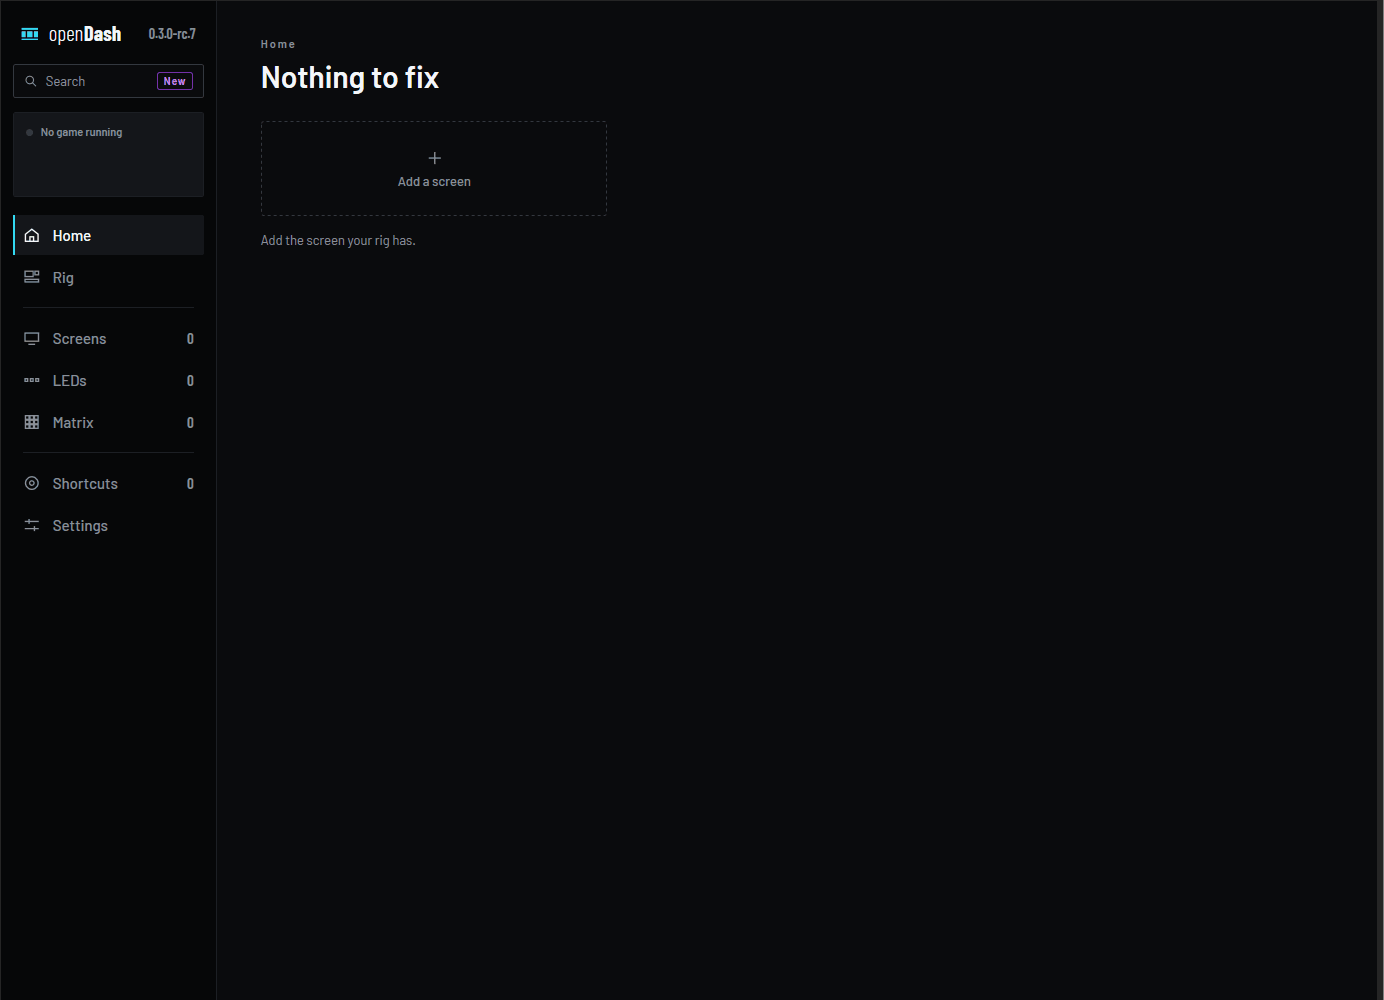
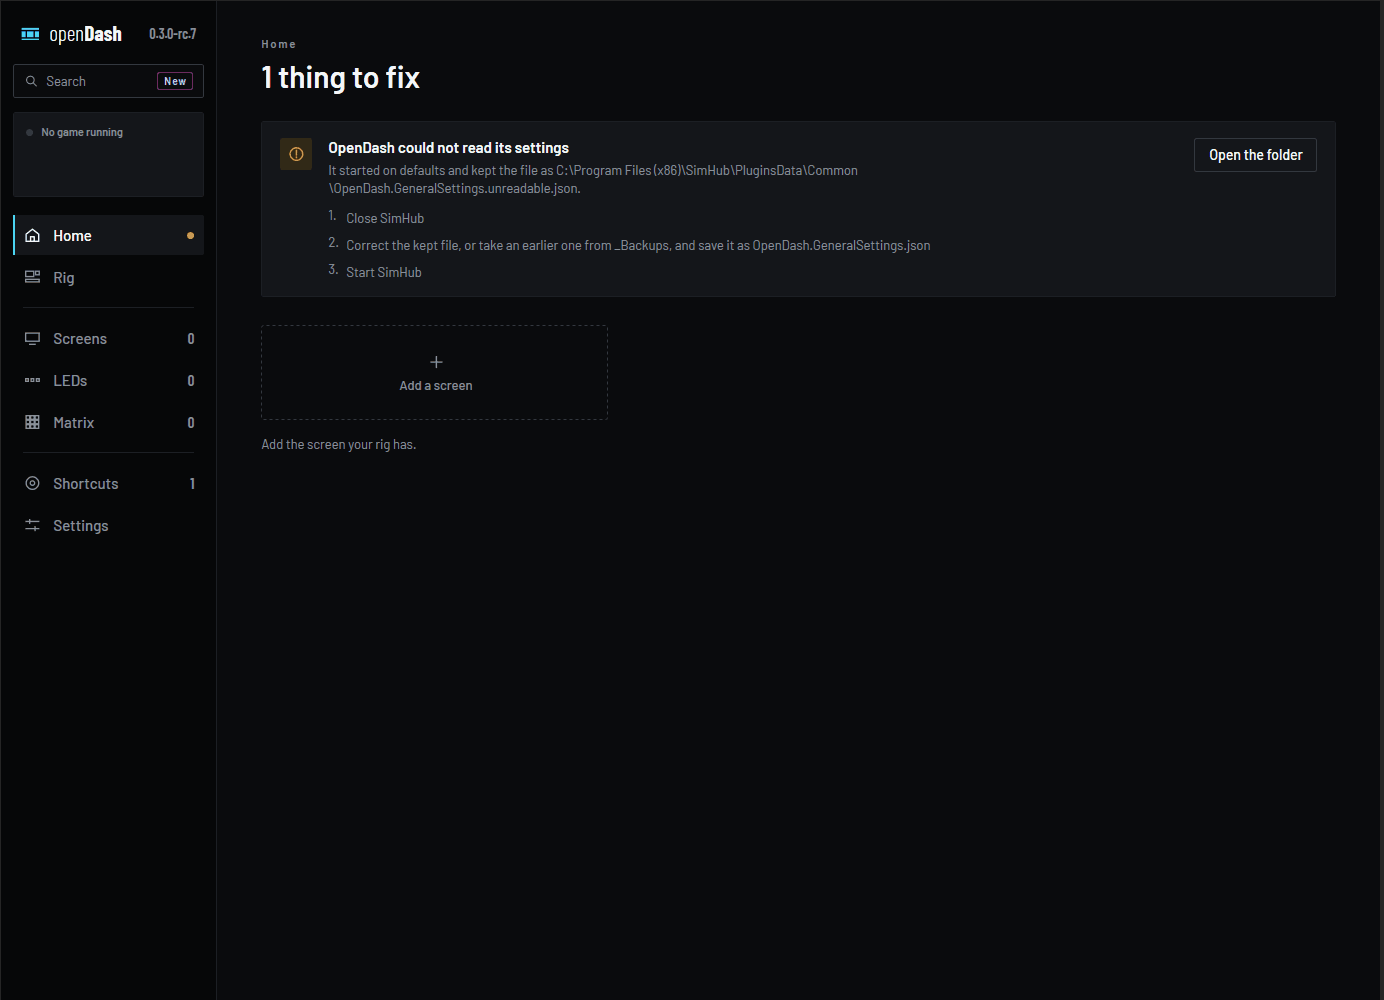
The panel verification record says which of the six bug fixes held on the VM (#529)
media/503/panel-verification.md gains a dated "Bug fixes verified" section. It has one row for each fix
filed from the run, checked at 2402ecb2 on SimHub 9.12.6. Five passed. The support report names SimHub 9.12.6
(#641). A rebuild from a bound night-mode key keeps the Oil temperature box's caret and selection (#542). An
unreadable settings file is kept beside itself, and Home says where it is and how to put it back (#643). A
profile newer than an rc.1 build reads "Newer than this build" everywhere, with no Update press (#642).
panel-shots measures the panel at all four widths, photographs 44 of 44 and writes run.json (#640).

#543 does not pass as its ticket words it. Between two of Settings' thresholds a resize rebuilds nothing, and
the typed value, the caret, the focus and the scroll all stay put. The ticket's 1000 to 1080 px drag, though,
crosses the 680 px alert threshold at about 1036. There the page is rebuilt by design, and the keyboard focus
comes back in Low fuel's box rather than Oil temperature's. BUG-543-focus.png shows it. The section also says
why the sidebar's night switch cannot stand in for the wheel press when testing #542: clicking the switch takes
the keyboard focus. It also says what the VM was left in.

FL-06-unreadable.png is replaced by Home's new "OpenDash could not read its settings". BUG-642-newer.png and
BUG-543-focus.png are new. All three are 128-colour PNGs.

Snapshots: none moved.

diff --git a/media/503/panel-verification.md b/media/503/panel-verification.md
@@ -356,3 +356,29 @@ SimHub from the LD, AL and MX rows.
 | FL-06 | inject a bad settings value | ✅ | second pass, two values. A face with Width 0 and Height 0 ("Broken") written with SimHub stopped: SimHub starts, the installer refuses it and logs `ERROR [OpenDash] Installing OpenDash Broken failed: … mentions OpenDash.Face0x0 nowhere`, Home lists "Broken's dashboard is missing from SimHub", and Screens draws its card with "OpenDash no longer ships a 0 × 0 face. Your settings are kept." ([FL-06.png](FL-06.png)); Rig draws it too ([FL-06-rig.png](FL-06-rig.png)). No page threw, so the page-failed line ("This page could not be drawn. See SimHub's log.") was not reached; no settings value tried reaches it, since Normalise absorbs them. A value of the wrong type (`"Rig": 5`): SimHub survives and logs the Newtonsoft exception, but OpenDash starts on defaults and saves them over the file ([FL-06-unreadable.png](FL-06-unreadable.png)): see bug 5 |
 | FL-07 | change, Stop-Process -Force | ✅ | Settings › Delta precision Thousandths, then Stop-Process -Force on SimHubWPF half a second later: the settings file already held "thousandths", and after the next start still did |
 | FL-08 | display at 1280×800 | ✅ | precondition held: the display check (guiProblem) passed at 3840 × 2160 before the first click |
+
+## Bug fixes verified (2026-10-02)
+
+The six fixes filed from this run, checked on the VM (SimHub 9.12.6, 3840 × 2160) at `2402ecb2` with the plugin from
+`bun run package` (0.3.0-rc.7), installed with `bun run vm plugin --no-build --menu` over the panel rig. Widths below
+are SimHub client widths set with `sizeSimHub`; SimHub's own menu takes 215 px of them and its frame 5, so the
+panel's control is the client width less 220. Whether a resize rebuilt the Settings page was read from the settings
+file: a rebuild commits the box being typed in, so a typed value reaching `LightsOilTemp` means the page was built
+again, and the file left alone means it was not.
+
+| ticket | result | what was seen |
+|---|---|---|
+| #641 support report names SimHub | ✅ | Updates › Copy a support report, then `Get-Clipboard` in the desktop session: the second block reads `SimHub: 9.12.6, in C:\Program Files (x86)\SimHub\` |
+| #542 rebuild keeps the caret | ✅ | Typed 135 in Settings' Oil temperature box and moved the caret to `1\|35`, then pressed a key bound to ToggleNightMode (`bun run vm bind ToggleNightMode F9`, the wheel button's path): night mode went on, the page was rebuilt (`LightsOilTemp` 135 written), the box came back focused, and Delete gave `1\|5`, so the caret was still at 1. With `5` selected, a second press (night off, 15 written) kept the selection, and typing 4 gave `14`. The sidebar's Night mode switch cannot stand in for the press: clicking it takes the keyboard focus, so the box is left before the rebuild and there is nothing to restore |
+| #543 a resize between two thresholds rebuilds nothing | ❌ as written | Between the thresholds it holds: with `1\|29` typed in Oil temperature, 985 → 1000 → 1010 → 1020 → 1030 → 1034 → 1000 (control 765–814, content under 680) left the settings file alone, the caret, the focus and the scroll where they were; so did 760 → 780 → 800 → 816 → 770 (control 540–596, under 560), where the Alerts heading moves 34 px only because captions above it wrap to fewer lines. But the ticket's range, 1000 to 1080, crosses AlertSurfacesFrom (680 of content) at about 1036, where the alert table unfolds its surface columns and the page is rebuilt by design. The scroll survives that rebuild; the focus does not: with `1\|28` typed in Oil temperature at 1020, at 1060 the value was saved and the keyboard focus came back in Low fuel's box, where End, 9 typed `29` ([BUG-543-focus.png](BUG-543-focus.png)). RestoreFocus's path through the tree lands on another control when the table changes shape |
+| #643 an unreadable settings file is set aside | ✅ | With SimHub stopped, `"Rig": 5` written and `_Backups\OpenDash.GeneralSettings_b*.json` moved away: after the start `OpenDash.GeneralSettings.unreadable.json` sits beside the file, byte for byte the bad file, while the live file holds the defaults; the log says `The settings could not be read and OpenDash started on defaults. The file is kept as …unreadable.json`. Home reads "1 thing to fix", "OpenDash could not read its settings", the copy's path and the three steps, with Open the folder, and Home wears the amber dot in the sidebar ([FL-06-unreadable.png](FL-06-unreadable.png), which replaces the first pass's "Nothing to fix"). Open the folder opened Explorer on PluginsData\Common with the copy selected. The good file and the ten backups were then put back, the copy deleted, and SimHub restarted on the rig |
+| #642 a profile newer than the plugin is not offered as an update | ✅ | A throwaway build packaged with VERSION 0.3.0-rc.1 from a copy of the tree (`build/bold`, deleted after; the repository's VERSION untouched), over the rc.7 profiles. Home lists the unselected Wheel rim profile and "OpenDash 0.3.0-rc.7 is available", and no "has an update". Updates: Wheel rim's LED profile and the OpenDash Flag box matrix profile read "Newer than this build" at 0.3.0-rc.7 with no Update press, and hovering either says "Update OpenDash to match it: this build ships 0.3.0-rc.1." ([BUG-642-newer.png](BUG-642-newer.png)). Matrix's line reads "OpenDash Flag box · 0.3.0-rc.7 · Newer than this build" with Reinstall as its non-primary press (the line's ghost style) and the same hover |
+| #640 panel-shots finds the panel | ✅ | `bun run panel-shots --menu-y 432 --rig panel --no-build` ran through: it measured the panel at every width (SimHub 700 → panel 481 at 214,79, Compact; 1000 → 780, Rail; 1600 → 1379, Full; maximised 3840 → 1400 at 1325,79, Full), photographed 44 of 44 into build/panel/ and wrote run.json (SimHub 9.12.6, 0.3.0-rc.7, 2402ecb2). home-700 and screens-max were looked at: each is the panel and only the panel, the rail at 700 and SimHub's centred column at 3840. RS-05's run.json now exists; the page captures beside this file were not replaced |
+
+Suites: `bun run check` 3845 pass, 2 skip, 0 fail, after this section was written.
+
+**VM state left behind.** The branch build (0.3.0-rc.7, the DLL `bun run package` wrote at `2402ecb2`) is installed
+with OpenDash in SimHub's left menu, the panel rig is on (`bun scripts/rig.ts panel`, Rim's folder deleted so it reads
+as missing), the F9 binding is gone (`bun run vm unbind`), no unreadable copy is left in PluginsData\Common, SimHub is
+maximised on OpenDash, and the VM is released (panel-shots, the last step, installs the branch DLL and puts the rig
+on itself, then releases). The good settings file from before #643 is kept at `C:\Temp\opendash-643` on the guest.
